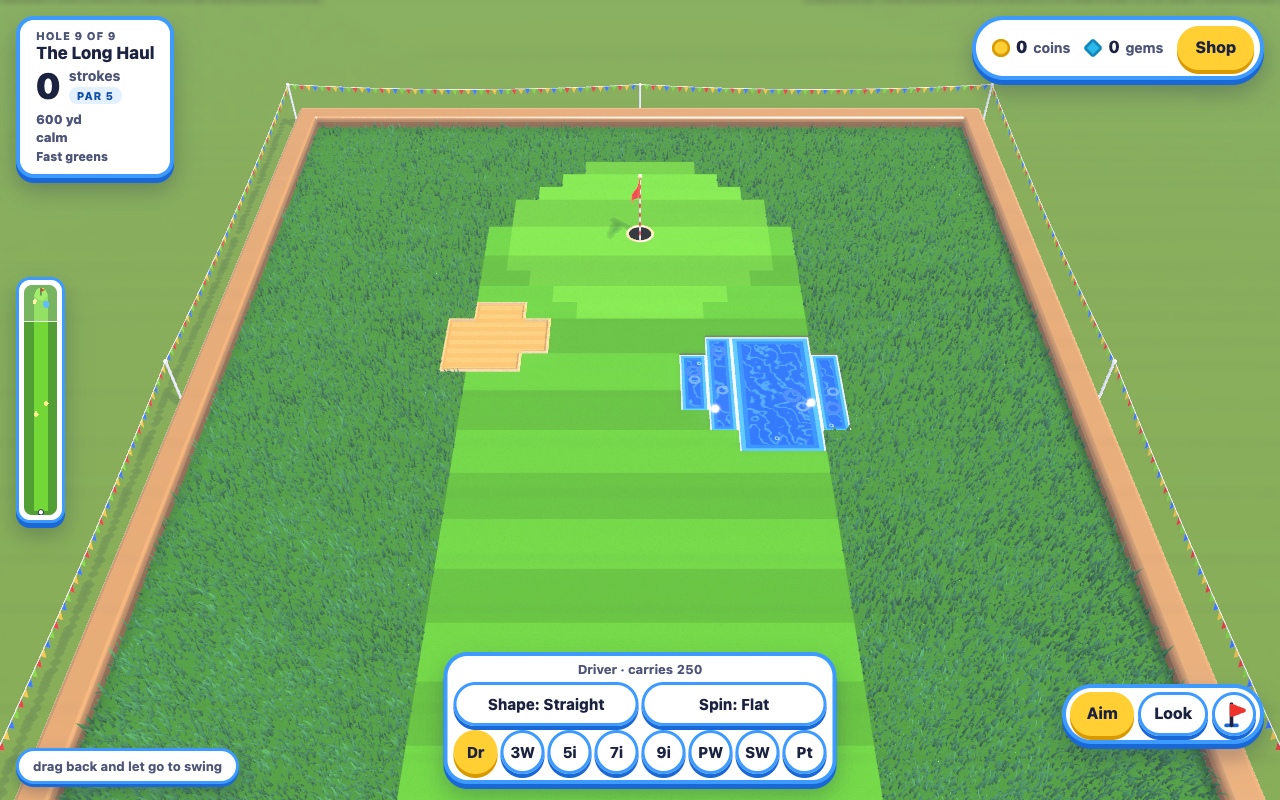
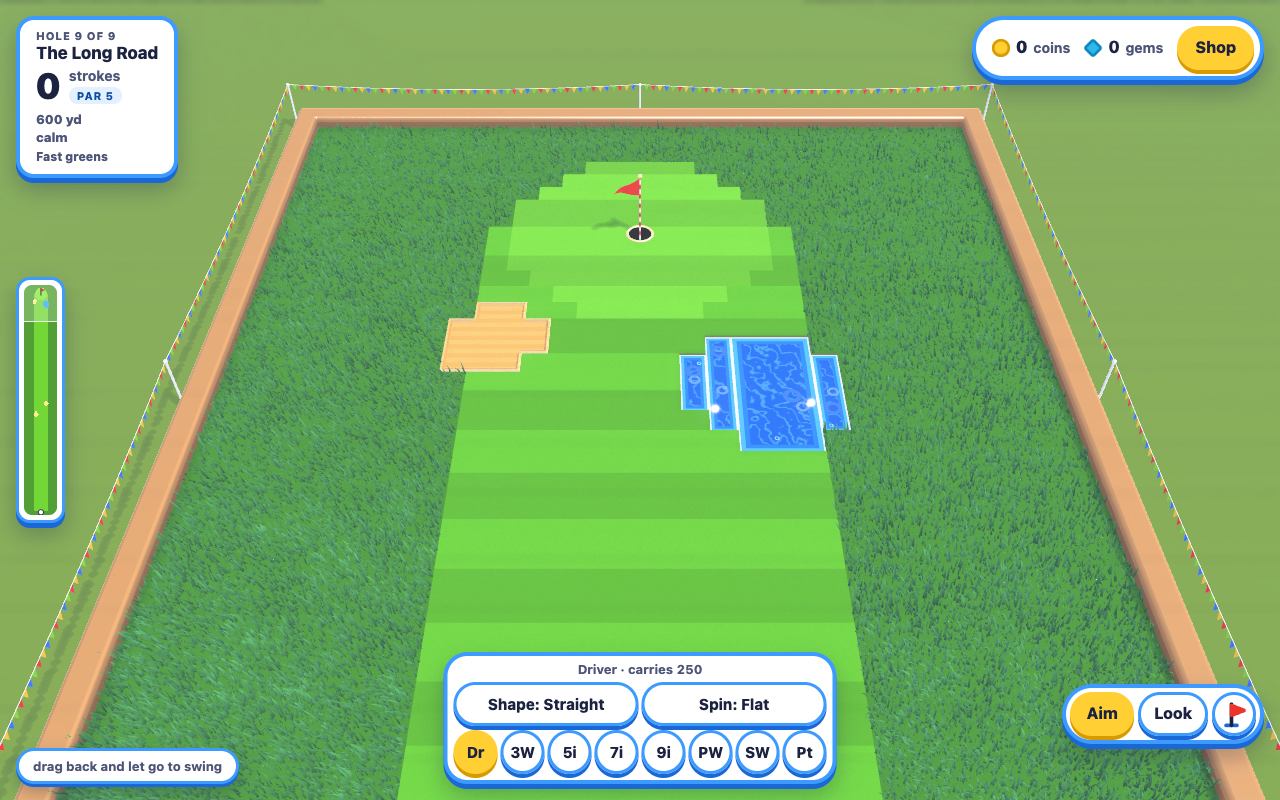
The minigolf break arrows are thinned on enormous holes, and the smoke tests follow the new courses
The full smoke run after the courses landed found a real regression: the grass test's synthetic minigolf hole of 300 by 300 tiles drew an arrow on every tile that leans (about ninety thousand) and its frame went over budget (6.1 ms). A hole of minigolf bigger than the biggest real one is now shown by a thinner field (every second or third tile each way, so at most about three thousand arrows); the real holes (under 700 tiles) are unchanged.

The smoke tests that named the old courses are brought up to date: The Moors' card reads par 34, the Downs' whole-hole view test holds only the cup in view for the two holes longer than the widest view (Two Shots and The Big Dipper), and the Range's last hole is The Long Road (the pictures of its tee and green are written again, since the hole's name seeds its scenery). The plan is marked built.

Changed region(s): [[0.0625, 0.1562, 0.9688, 1.0], [0.0938, 0.0312, 0.1562, 0.2188], [0.4688, 0.2188, 0.5, 0.25]]

diff --git a/smoke/game.spec.ts b/smoke/game.spec.ts
@@ -205,7 +205,7 @@ test.describe('the start screen', () => {
     await expect(page.locator('#start .course').nth(2)).toContainText('9 holes');
     await expect(page.locator('#start .course').nth(3)).toContainText('The Moors');
     await expect(page.locator('#start .course').nth(3)).toContainText('9 holes');
-    await expect(page.locator('#start .course').nth(3)).toContainText('par 47');
+    await expect(page.locator('#start .course').nth(3)).toContainText('par 34');
     await expect(page.locator('#start .course').nth(4)).toContainText('The Range');
     await expect(page.locator('#start .course').nth(4)).toContainText('9 holes');
     await expect(page.locator('#start .course').nth(4)).toContainText('par 32');
@@ -317,10 +317,16 @@ test.describe('The Downs', () => {
         // as far back as the wheel takes it, on the middle of the hole
         g.look((floor.minX + floor.maxX) / 2, (floor.minY + floor.maxY) / 2, 110);
         g.step(2);
-        // the rail's four corners at the ground and at the top of the highest ground and the rail on it
-        return [floor.minX, floor.maxX].flatMap((x) =>
-          [floor.minY, floor.maxY].flatMap((y) => [0, 6].map((z) => g.project(x, y, z))),
-        );
+        // the rail's four corners at the ground and at the top of the highest ground and the rail on it; for the two holes
+        // longer than the widest view (Two Shots, 71 units, and The Big Dipper, 89), the cup, which a player can always find
+        // and which the flag button turns to
+        const { tee, cup } = g.content();
+        const long = Math.hypot(cup.x - tee.x, cup.y - tee.y) > 60;
+        return long
+          ? [cup].map((p) => g.project(p.x, p.y, 0))
+          : [floor.minX, floor.maxX].flatMap((x) =>
+              [floor.minY, floor.maxY].flatMap((y) => [0, 6].map((z) => g.project(x, y, z))),
+            );
       }, i);
       for (const c of corners) {
         expect(c.x, `${hole.name}: across`).toBeGreaterThan(0);

diff --git a/src/green.ts b/src/green.ts
@@ -16,6 +16,9 @@ export const GREEN = { steepest: 0.1 } as const;
 /** The slope, rise over run, a tile of green has to be more than for an arrow to stand on it: a hair, about a fifth of a per cent. */
 const HAIR = 0.002;
 
+/** How many arrows a hole of minigolf may be given before the field is thinned: a little over the biggest real hole's floor. */
+const ARROWS_MOST = 3000;
+
 /**
  * One arrow of the grid laid over a green: where it stands (the middle of a tile), and the slope there, rise over run, in
  * x and in y, as `slopeAt` says it: the way the ground climbs, so the ball is carried the other way.
@@ -37,7 +40,11 @@ export interface Arrow {
 export function greenArrows(layout: Layout): Arrow[] {
   const arrows: Arrow[] = [];
   const cupTile = layout.golf ? -1 : tileAt(layout, layout.cup.x, layout.cup.y);
+  // a hole of minigolf bigger than any there is (a test's hundred thousand tiles) is shown by a thinner field, every second or
+  // third tile each way, so that what it costs a frame stays what the biggest real hole's does
+  const every = layout.golf ? 1 : Math.max(1, Math.ceil(Math.sqrt((layout.cols * layout.rows) / ARROWS_MOST)));
   for (let t = 0; t < layout.cols * layout.rows; t++) {
+    if (every > 1 && ((t % layout.cols) % every || Math.floor(t / layout.cols) % every)) continue;
     const x = layout.originX + ((t % layout.cols) + 0.5) * TILE,
       y = layout.originY + (Math.floor(t / layout.cols) + 0.5) * TILE;
     if (layout.solid[t]) continue;
